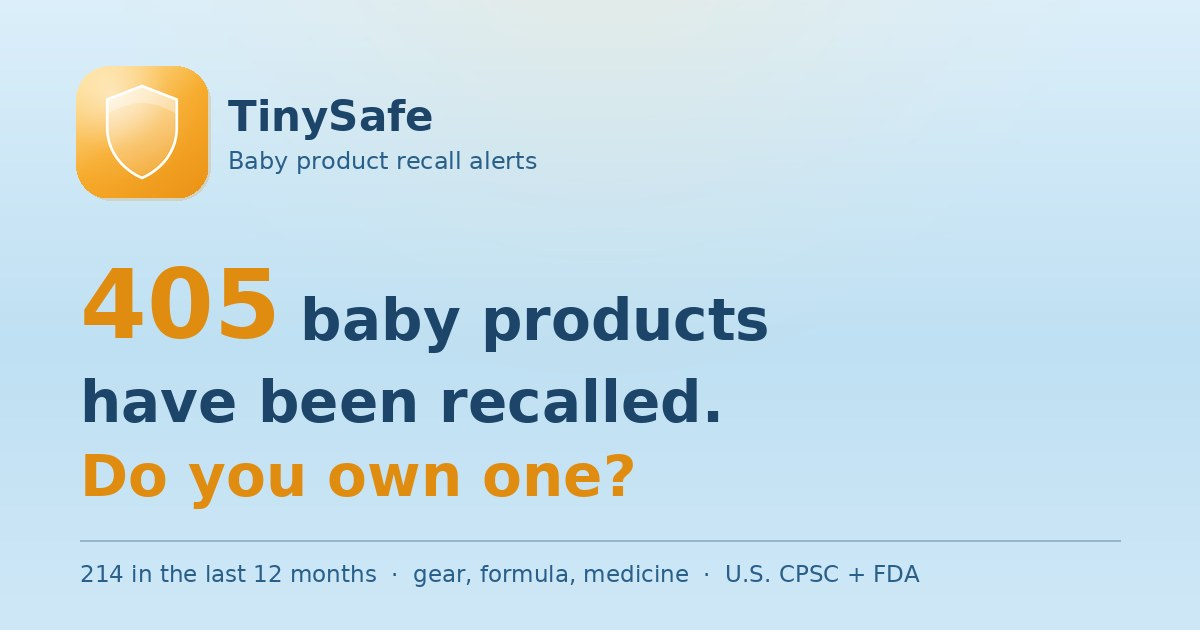
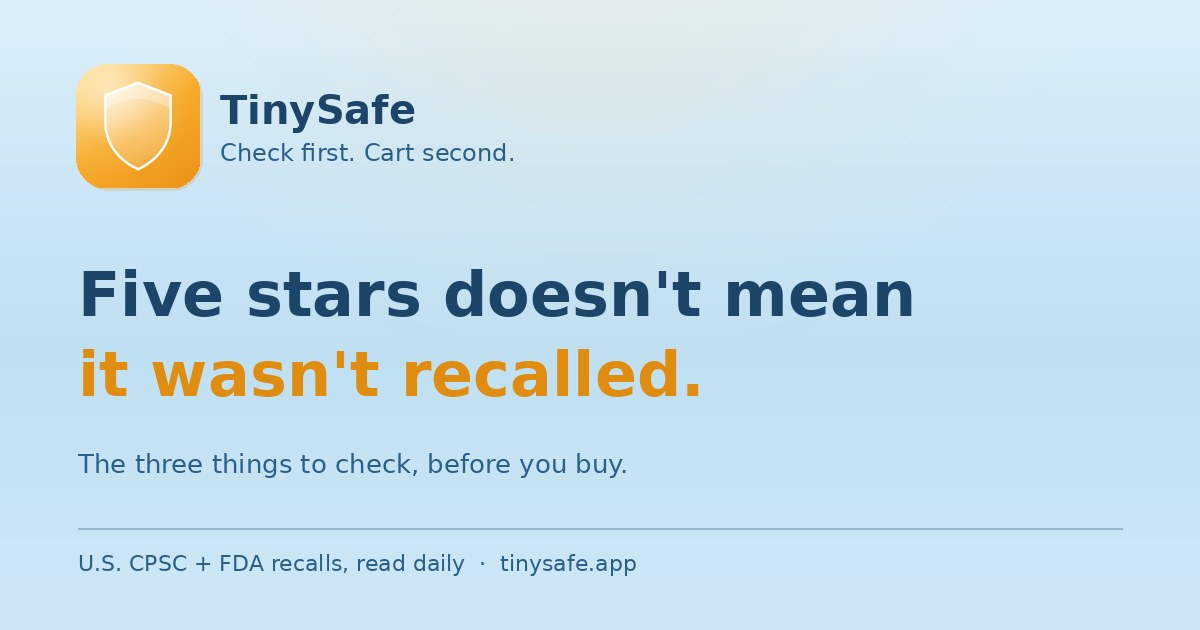
Update the tab title and link card to the current hook
The tab still read 'Before it comes home, give it one look' and the shared card
still carried this morning's artwork about 405 recalled products — both from
drafts the page has since moved past, so a shared link advertised a page that no
longer exists.

- Title, og:title and twitter:title now carry the five-stars hook
- og.jpg redrawn to match: the hook in navy and gold, 'Check first. Cart second.'
  under the wordmark, and the three-things line beneath. All lines measured
  against the 1044px safe width. 57KB, 1200x630
- Image URL carries ?v=2 so platforms fetch the new artwork instead of serving
  the card they already cached

Note on blank previews: platforms cache aggressively per URL, so an old thread
will keep showing the old card. Sharing into a new conversation is what proves
the fix.

diff --git a/check/index.html b/check/index.html
@@ -3,7 +3,7 @@
 <head>
 <meta charset="utf-8">
 <meta name="viewport" content="width=device-width, initial-scale=1, viewport-fit=cover">
-<title>Before it comes home, give it one look — TinySafe</title>
+<title>Five stars doesn't mean it wasn't recalled — TinySafe</title>
 <meta name="description" content="Tell us what you're looking to buy and we'll show you the three things to check first, drawn from what actually keeps going wrong.">
 <meta name="robots" content="noindex">
 <link rel="canonical" href="https://tinysafe.app/check">
@@ -13,17 +13,17 @@
      few hundred KB or platforms silently fall back to a blank grey box. -->
 <meta property="og:type" content="website">
 <meta property="og:url" content="https://tinysafe.app/check">
-<meta property="og:title" content="Before it comes home, give it one look.">
+<meta property="og:title" content="Five stars doesn't mean it wasn't recalled.">
 <meta property="og:description" content="Five stars doesn't mean it wasn't recalled. Tell us what you're looking to buy and we'll show you the three things to check first.">
-<meta property="og:image" content="https://tinysafe.app/check/og.jpg">
+<meta property="og:image" content="https://tinysafe.app/check/og.jpg?v=2">
 <meta property="og:image:width" content="1200">
 <meta property="og:image:height" content="630">
-<meta property="og:image:alt" content="TinySafe — before it comes home, give it one look. Three things worth checking, drawn from real recalls">
+<meta property="og:image:alt" content="TinySafe — five stars doesn't mean it wasn't recalled. The three things to check, before you buy">
 <meta property="og:site_name" content="TinySafe">
 <meta name="twitter:card" content="summary_large_image">
-<meta name="twitter:title" content="Before it comes home, give it one look.">
+<meta name="twitter:title" content="Five stars doesn't mean it wasn't recalled.">
 <meta name="twitter:description" content="Tell us what you're looking to buy and we'll show you the three things to check first.">
-<meta name="twitter:image" content="https://tinysafe.app/check/og.jpg">
+<meta name="twitter:image" content="https://tinysafe.app/check/og.jpg?v=2">
 <style>
 :root{
   --sky1:#dceffa; --sky2:#bfe0f3; --sky3:#cfe8f7;